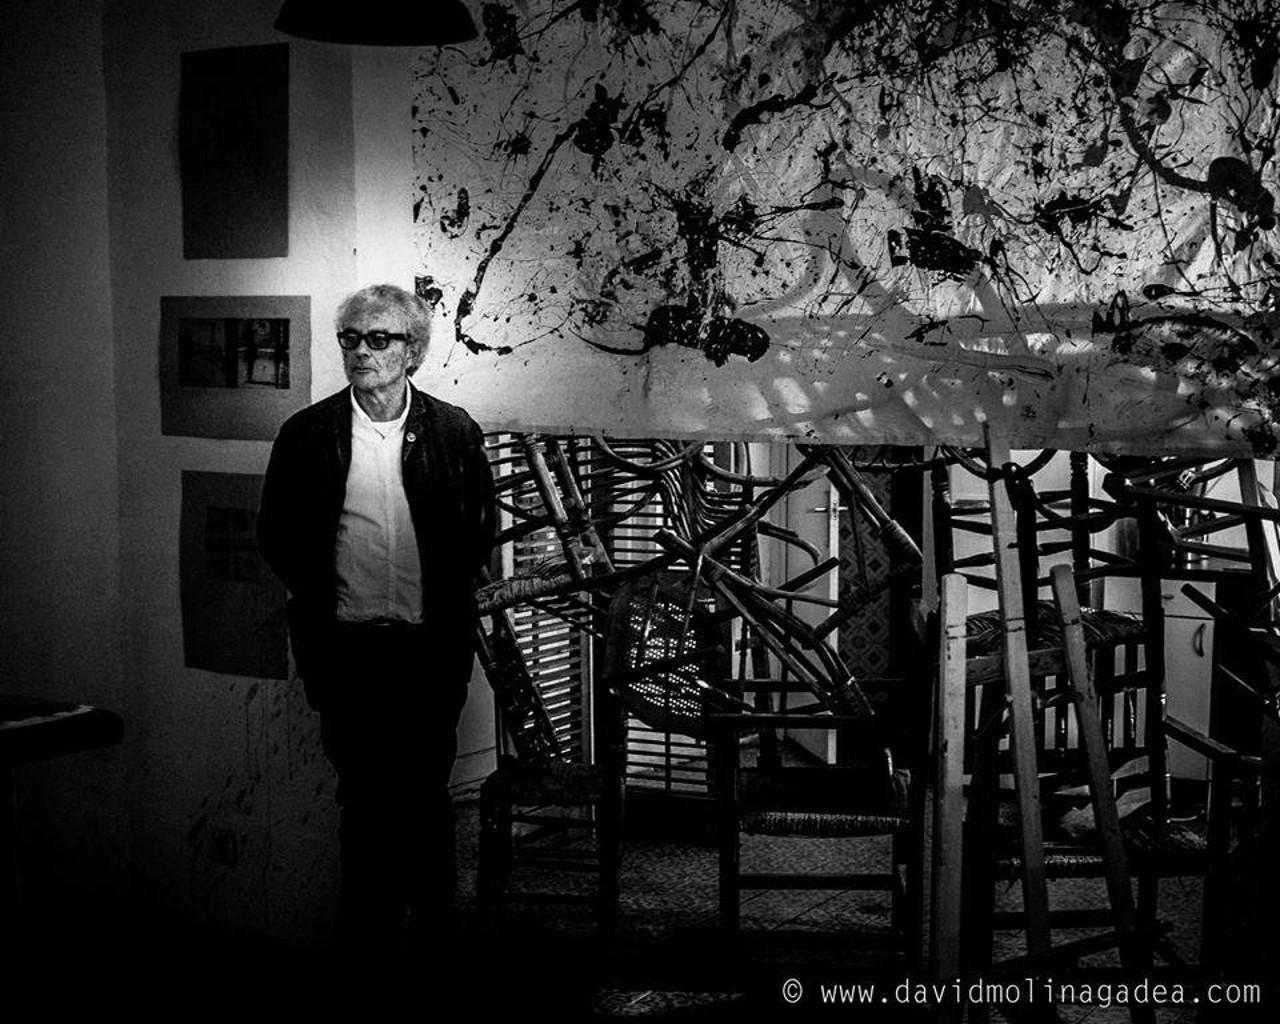
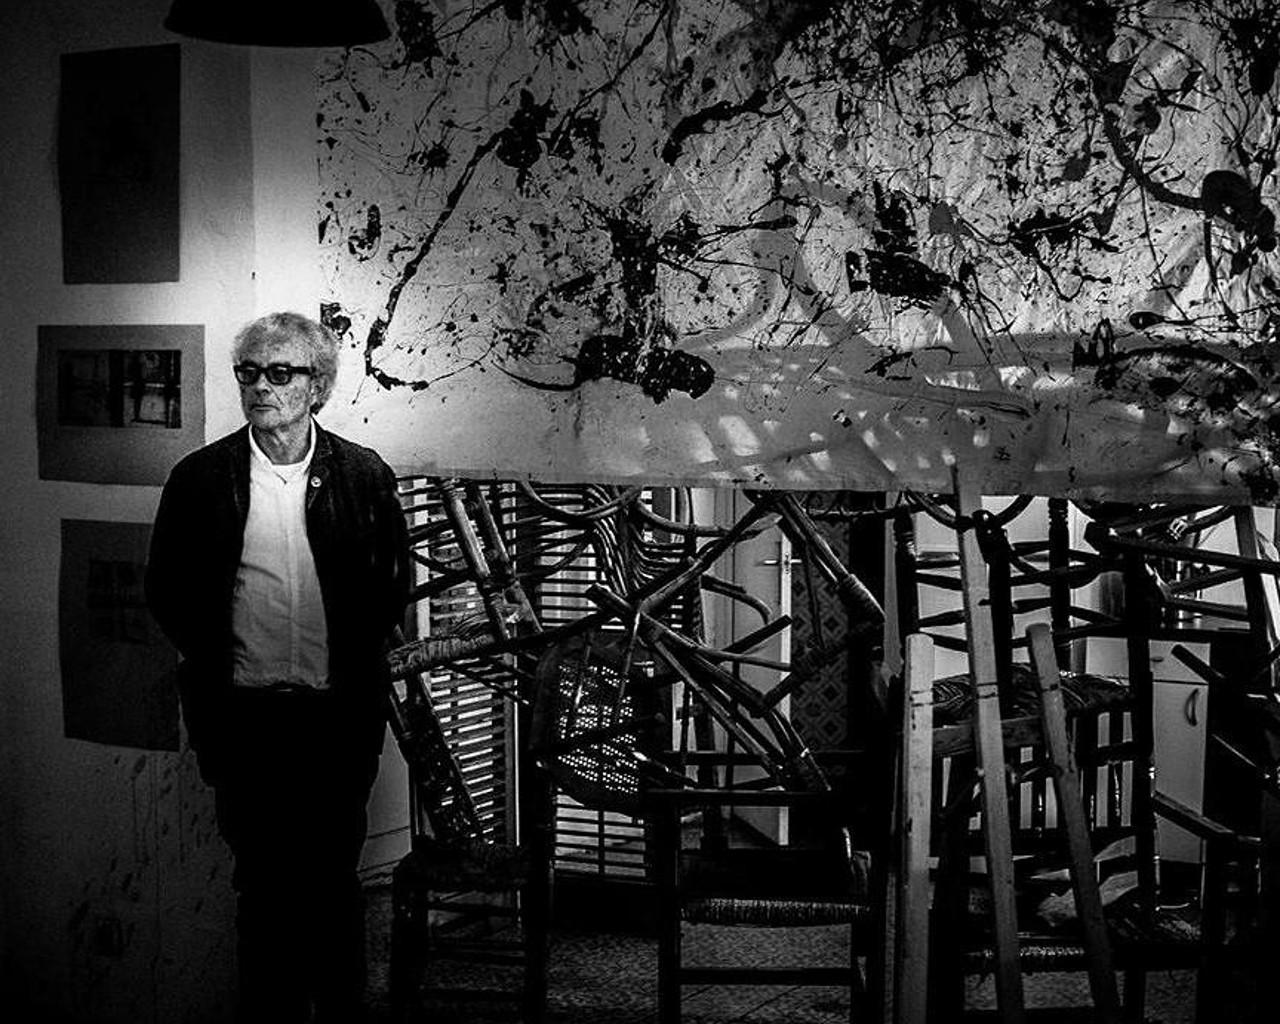
Canviada imatge bg intro i refet text sobre.

diff --git a/_includes/about.html b/_includes/about.html
@@ -4,7 +4,7 @@
             <div class="row">
                 <div class="col-lg-8 col-lg-offset-2">
                     <h2>Sobre <span class="light">Jordi</span>Pagès</h2>
-                    <p>Jordi Pagès és un artista de Granollers (1951) amb una forta empremta a Cadaqués, amb una llarga trajectòria artística. Lector apassionat, en especial de la poesia, l’utilitza com a diàleg creatiu amb conseqüències quasi sempre imprevisibles. Optant per tenir més llibertat, ha presentat la seva obra en llibreries i no en galeries. Les seves obres són una síntesi d’esferes imaginables, començant per la poesia o la pintura, passant per la música o el cinema, i finalitzant amb un calidoscopi artístic. És per aquest fet que Jordi Pagès utilitza sobretot el collage, per donar cabuda a tot el seu eclèctic imaginari creatiu.</p>
+                    <p>Jordi Pagès (1951) és un artista de Granollers molt vinculat a Cadaqués, on també hi té estudi, amb una llarga trajectòria artística. Lector apassionat, en especial de la poesia, l’utilitza com a diàleg creatiu amb conseqüències quasi sempre imprevisibles. Optant per tenir més llibertat, ha presentat la seva obra en galeries, llibreries, espais singulars,etc.... Les seves obres són una síntesi d’esferes imaginables, començant per la poesia o la pintura, passant per la música o el cinema, i finalitzant amb un calidoscopi artístic. És per aquest fet que Jordi Pagès utilitza sobretot el collage, per donar cabuda a tot el seu eclèctic imaginari creatiu.</p>
                 </div>
             </div>
             <ul>

diff --git a/styles/main.scss b/styles/main.scss
@@ -191,7 +191,7 @@ hr {
     height: auto;
     text-align: center;
     color: #fff;
-    background: url(/images/grayscale-jordi-pages.jpg) no-repeat bottom center scroll;
+    background: url(/images/jordi-pages-poetes-ferits-bg-obra.jpg) no-repeat bottom center scroll;
     -webkit-background-size: cover;
     -moz-background-size: cover;
     background-size: cover;
